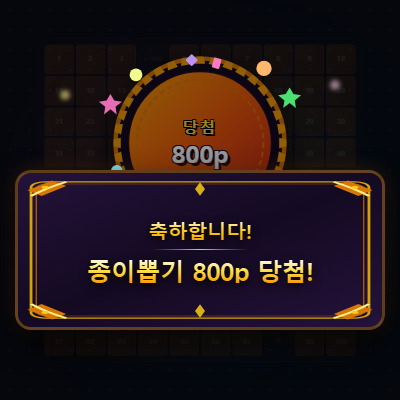
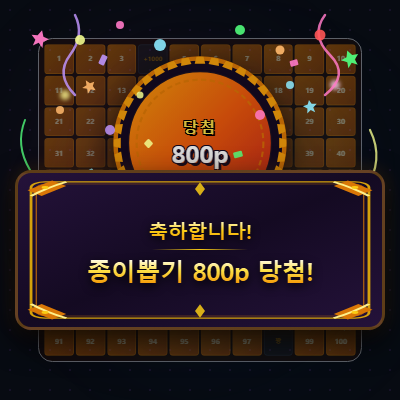
style: 종이뽑기 배너 뒷배경 가독성 대폭 향상, 하늘에서 내리는 풍성한 컨페티 폭죽 연출 추가 및 이미지 재캡처 푸시

diff --git a/app/render-banners/page.tsx b/app/render-banners/page.tsx
@@ -290,27 +290,27 @@ function RetroDrawBanner({ amount }: { amount: number }) {
       <div style={{ width: 400, height: 400, backgroundColor: '#090d16', position: 'relative', display: 'flex', alignItems: 'center', justifyContent: 'center', overflow: 'hidden' }}>
         
         {/* 뒷배경: 10x10 종이뽑기판 (반투명 처리용으로 스케일 낮춰 배치) */}
-        <div className="absolute w-[360px] h-[360px] opacity-15 grid grid-cols-10 gap-0.5 p-1.5 bg-amber-950/20 border border-amber-900/30 rounded-2xl pointer-events-none scale-90 z-0">
+        <div className="absolute w-[360px] h-[360px] opacity-55 grid grid-cols-10 gap-0.5 p-1.5 bg-amber-950/40 border border-amber-850/50 rounded-2xl pointer-events-none scale-90 z-0">
           {dummySlots.map((slot) => (
             <div
               key={slot.slotNumber}
               className={`aspect-square flex items-center justify-center rounded border text-[8px] font-black ${
                 slot.isPulled
-                  ? 'bg-gray-800/40 border-gray-800 text-gray-600'
-                  : 'bg-gradient-to-br from-amber-600/80 to-amber-700/80 text-amber-100 border-amber-500/25'
+                  ? 'bg-gray-800/50 border-gray-700/60 text-gray-500'
+                  : 'bg-gradient-to-br from-amber-600/90 to-amber-700/90 text-amber-100 border-amber-500/35'
               }`}
             >
               {slot.isPulled ? (
-                <span className="text-[7px] text-yellow-600/80">{slot.reward}</span>
+                <span className="text-[7px] text-yellow-600/90 font-black">{slot.reward}</span>
               ) : (
-                <span className="text-[8px]">{slot.slotNumber}</span>
+                <span className="text-[8px] font-black">{slot.slotNumber}</span>
               )}
             </div>
           ))}
         </div>
 
-        {/* 반투명 블랙 딤 레이어 (배경 불투명도 조절) */}
-        <div className="absolute inset-0 bg-black/40 backdrop-blur-[0.5px] z-10 pointer-events-none" />
+        {/* 반투명 블랙 딤 레이어 (배경 불투명도 조절, 이전 40%에서 15%로 낮춰 배경이 훨씬 잘 보이게 함) */}
+        <div className="absolute inset-0 bg-black/15 backdrop-blur-[0.5px] z-10 pointer-events-none" />
 
         {/* 아우라 빛 효과 (z-index: 15) */}
         <div className="absolute w-56 h-56 rounded-full bg-pink-500/10 blur-3xl z-15" style={{ transform: 'translate(-30px, -20px)' }} />
@@ -325,16 +325,53 @@ function RetroDrawBanner({ amount }: { amount: number }) {
           <rect width="400" height="400" fill="url(#grid)" />
         </svg>
 
-        {/* 레트로 종이 꽃가루/별 데코 (정적 SVG, z-index: 20) */}
-        <svg viewBox="0 0 200 200" className="w-64 h-64 select-none absolute z-20 pointer-events-none overflow-visible" style={{ top: '30px' }}>
-          <path d="M 30,50 L 33,55 L 39,56 L 34,60 L 35,66 L 30,62 L 25,66 L 26,60 L 21,56 L 27,55 Z" fill="#ff79c6" opacity="0.9" />
-          <path d="M 170,45 L 173,50 L 179,51 L 174,55 L 175,61 L 170,57 L 165,61 L 166,55 L 161,51 L 167,50 Z" fill="#50fa7b" opacity="0.9" />
-          <circle cx="50" cy="35" r="5" fill="#f1fa8c" />
-          <circle cx="150" cy="30" r="6" fill="#ffb86c" />
-          <circle cx="35" cy="110" r="4.5" fill="#8be9fd" />
-          <circle cx="165" cy="115" r="5.5" fill="#ff5555" />
-          <rect x="90" y="20" width="7" height="7" rx="1" fill="#bd93f9" transform="rotate(45 93.5 23.5)" />
-          <rect x="110" y="22" width="6" height="8" rx="1" fill="#ff79c6" transform="rotate(15 113 26)" />
+        {/* ═══ 하늘에서 내리는 듯한 풍성한 레트로 컨페티/폭죽 장식 (정적 SVG, z-index: 20) ═══ */}
+        <svg viewBox="0 0 400 400" className="absolute inset-0 w-full h-full select-none z-20 pointer-events-none overflow-visible">
+          {/* 별 모양 파티클 (하늘에서 흩날림) */}
+          <path d="M 40,30 L 43,36 L 49,37 L 44,41 L 45,47 L 40,43 L 35,47 L 36,41 L 31,37 L 37,36 Z" fill="#ff79c6" opacity="0.95" transform="rotate(15 40 38)" />
+          <path d="M 350,50 L 353,56 L 359,57 L 354,61 L 355,67 L 350,63 L 345,67 L 346,61 L 341,57 L 347,56 Z" fill="#50fa7b" opacity="0.95" transform="rotate(-20 350 58)" />
+          <path d="M 90,80 L 92,84 L 97,85 L 93,88 L 94,93 L 90,90 L 86,93 L 87,88 L 83,85 L 88,84 Z" fill="#ffb86c" opacity="0.9" transform="rotate(45 90 86)" />
+          <path d="M 310,100 L 312,104 L 317,105 L 313,108 L 314,113 L 310,110 L 306,113 L 307,108 L 303,105 L 308,104 Z" fill="#8be9fd" opacity="0.9" transform="rotate(-10 310 106)" />
+          <path d="M 50,180 L 52,184 L 57,185 L 53,188 L 54,193 L 50,190 L 46,193 L 47,188 L 43,185 L 48,184 Z" fill="#ff5555" opacity="0.85" transform="rotate(30 50 186)" />
+          <path d="M 340,200 L 342,204 L 347,205 L 343,208 L 344,213 L 340,210 L 346,213 L 347,208 L 343,205 L 348,204 Z" fill="#f1fa8c" opacity="0.85" transform="rotate(-35 340 206)" />
+
+          {/* 구부러진 스트리머 리본 조각 (하늘에서 흘러내림) */}
+          <path d="M 75,15 Q 85,35 70,55 Q 55,75 75,95" fill="none" stroke="#bd93f9" strokeWidth="2.5" strokeLinecap="round" opacity="0.85" />
+          <path d="M 325,15 Q 310,35 330,55 Q 350,75 325,95" fill="none" stroke="#ff79c6" strokeWidth="2.5" strokeLinecap="round" opacity="0.85" />
+          <path d="M 25,120 Q 15,145 30,170 Q 45,195 25,220" fill="none" stroke="#50fa7b" strokeWidth="2" strokeLinecap="round" opacity="0.8" />
+          <path d="M 370,130 Q 385,160 365,190 Q 345,220 375,250" fill="none" stroke="#f1fa8c" strokeWidth="2.2" strokeLinecap="round" opacity="0.8" />
+
+          {/* 둥글둥글 원형 꽃가루 */}
+          <circle cx="80" cy="40" r="5" fill="#f1fa8c" opacity="0.9" />
+          <circle cx="120" cy="25" r="4" fill="#ff79c6" opacity="0.9" />
+          <circle cx="160" cy="45" r="6" fill="#8be9fd" opacity="0.9" />
+          <circle cx="240" cy="30" r="5" fill="#50fa7b" opacity="0.9" />
+          <circle cx="280" cy="50" r="4.5" fill="#ffb86c" opacity="0.9" />
+          <circle cx="320" cy="35" r="5.5" fill="#ff5555" opacity="0.9" />
+          
+          <circle cx="60" cy="110" r="4" fill="#ffb86c" opacity="0.85" />
+          <circle cx="110" cy="130" r="5" fill="#bd93f9" opacity="0.85" />
+          <circle cx="140" cy="95" r="3.5" fill="#f1fa8c" opacity="0.85" />
+          <circle cx="260" cy="115" r="5" fill="#ff79c6" opacity="0.85" />
+          <circle cx="290" cy="85" r="4" fill="#8be9fd" opacity="0.85" />
+          
+          <circle cx="30" cy="250" r="5.5" fill="#50fa7b" opacity="0.8" />
+          <circle cx="75" cy="230" r="4" fill="#ff5555" opacity="0.8" />
+          <circle cx="325" cy="270" r="5" fill="#ffb86c" opacity="0.8" />
+          <circle cx="365" cy="240" r="4.5" fill="#bd93f9" opacity="0.8" />
+
+          {/* 사각형 및 흩날리는 색종이 조각들 (다양한 각도로 회전) */}
+          <rect x="100" y="55" width="6" height="10" rx="1" fill="#bd93f9" opacity="0.9" transform="rotate(25 103 60)" />
+          <rect x="290" y="60" width="8" height="6" rx="1" fill="#ff79c6" opacity="0.9" transform="rotate(-15 294 63)" />
+          <rect x="145" y="140" width="7" height="7" rx="1.5" fill="#f1fa8c" opacity="0.85" transform="rotate(45 148.5 143.5)" />
+          <rect x="235" y="150" width="6" height="9" rx="1" fill="#50fa7b" opacity="0.85" transform="rotate(75 238 154.5)" />
+          <rect x="85" y="170" width="9" height="5" rx="1" fill="#8be9fd" opacity="0.85" transform="rotate(-30 89.5 172.5)" />
+          <rect x="300" y="180" width="7" height="7" rx="1.5" fill="#ffb86c" opacity="0.85" transform="rotate(60 303.5 183.5)" />
+          
+          <rect x="50" y="300" width="8" height="8" rx="2" fill="#ff79c6" opacity="0.75" transform="rotate(15 54 304)" />
+          <rect x="340" y="320" width="6" height="10" rx="1" fill="#8be9fd" opacity="0.75" transform="rotate(-45 343 325)" />
+          <rect x="115" y="270" width="7" height="7" rx="1.5" fill="#ff5555" opacity="0.75" transform="rotate(120 118.5 273.5)" />
+          <rect x="270" y="290" width="8" height="6" rx="1" fill="#f1fa8c" opacity="0.75" transform="rotate(-80 274 293)" />
         </svg>
 
         {/* ═══ 레트로 당첨 딱지 일러스트 (z-index: 25) ═══ */}

diff --git a/src/components/game/RetroDrawGame.tsx b/src/components/game/RetroDrawGame.tsx
@@ -455,7 +455,7 @@ export default function RetroDrawGame({
             <div>
               <span className="text-[10px] text-gray-500 font-bold mb-1 block">자동 첨부 이미지</span>
               <div className="w-full h-28 rounded-xl overflow-hidden border border-gray-800 bg-gray-950 flex items-center justify-center">
-                <img src={`/images/playground/retrodraw_win_banner_${result?.amount ?? 10}.png?v=2`} alt="인증 배너" className="max-w-full max-h-full object-contain" />
+                <img src={`/images/playground/retrodraw_win_banner_${result?.amount ?? 10}.png?v=3`} alt="인증 배너" className="max-w-full max-h-full object-contain" />
               </div>
             </div>
 
@@ -505,7 +505,7 @@ export default function RetroDrawGame({
         <div className="absolute inset-0 bg-black/80 backdrop-blur-sm rounded-3xl flex flex-col items-center justify-center p-6 z-30 animate-in fade-in duration-300">
           <div className="w-[300px] h-[300px] rounded-2xl overflow-hidden border border-gray-800 bg-gray-950 flex items-center justify-center shadow-2xl relative animate-in zoom-in duration-300">
             <img 
-              src={`/images/playground/retrodraw_win_banner_${result.amount}.png?v=2`} 
+              src={`/images/playground/retrodraw_win_banner_${result.amount}.png?v=3`} 
               alt="당첨 배너" 
               className="w-full h-full object-contain"
             />
